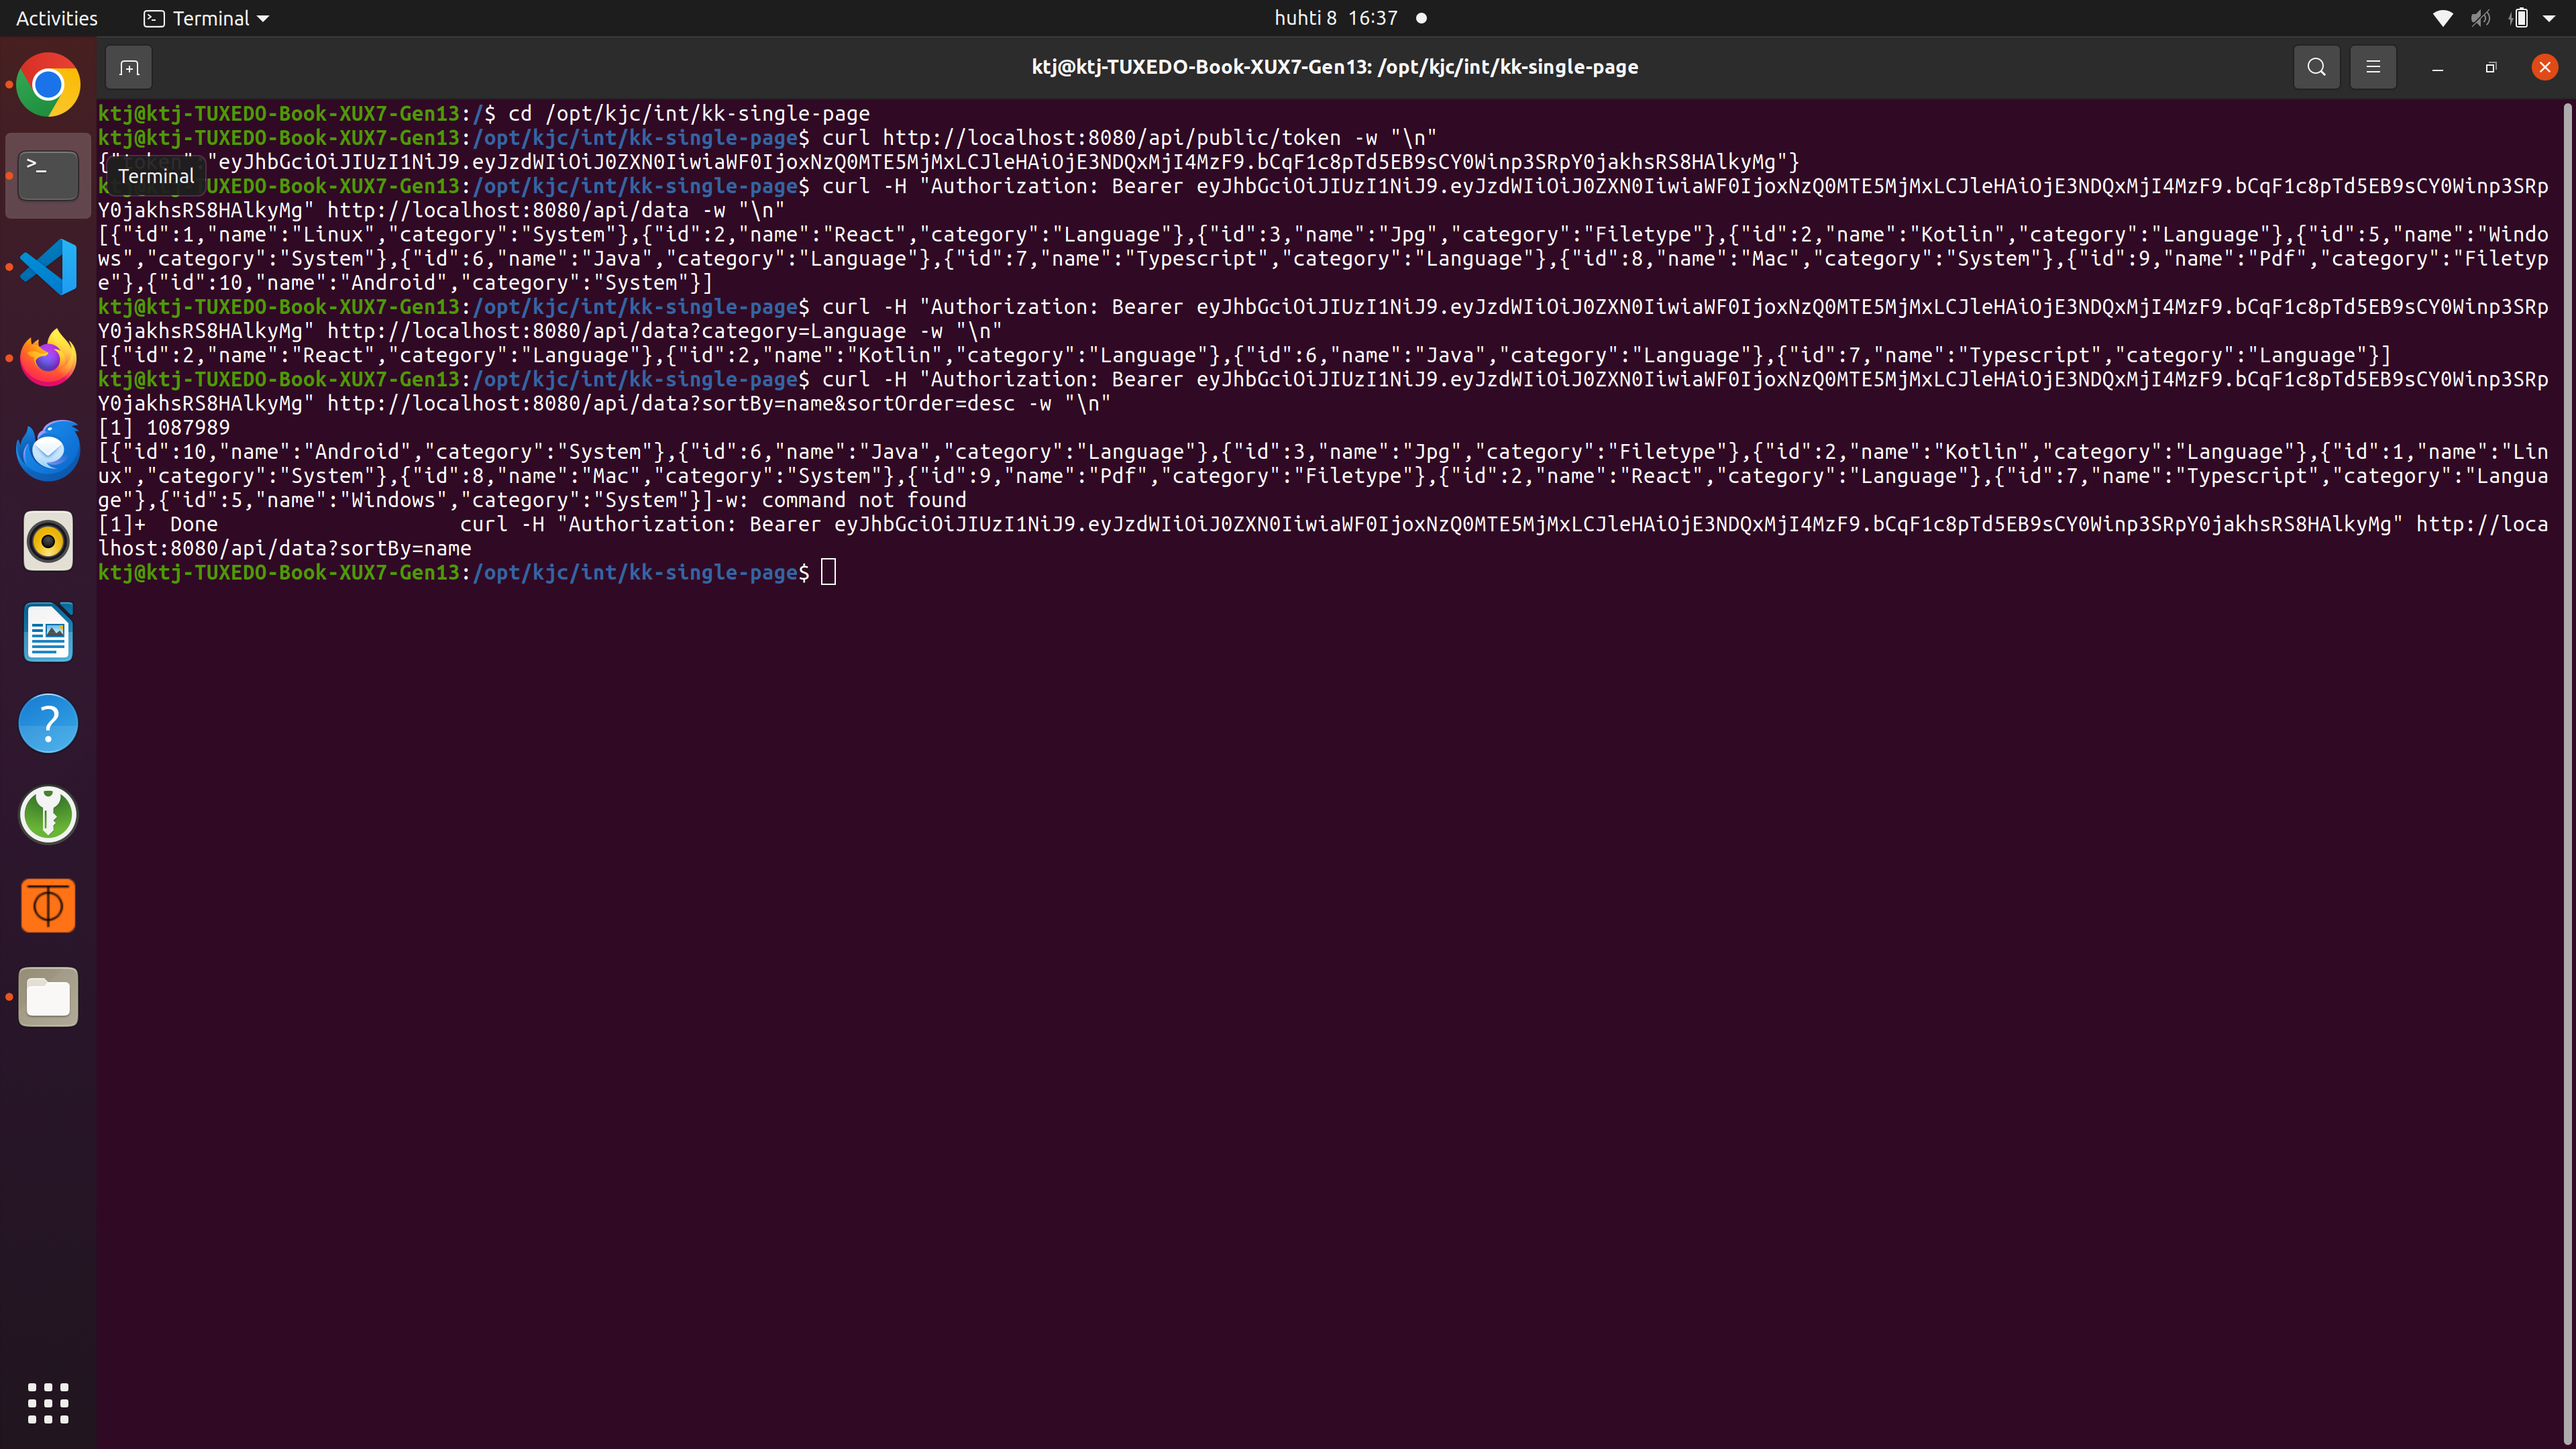
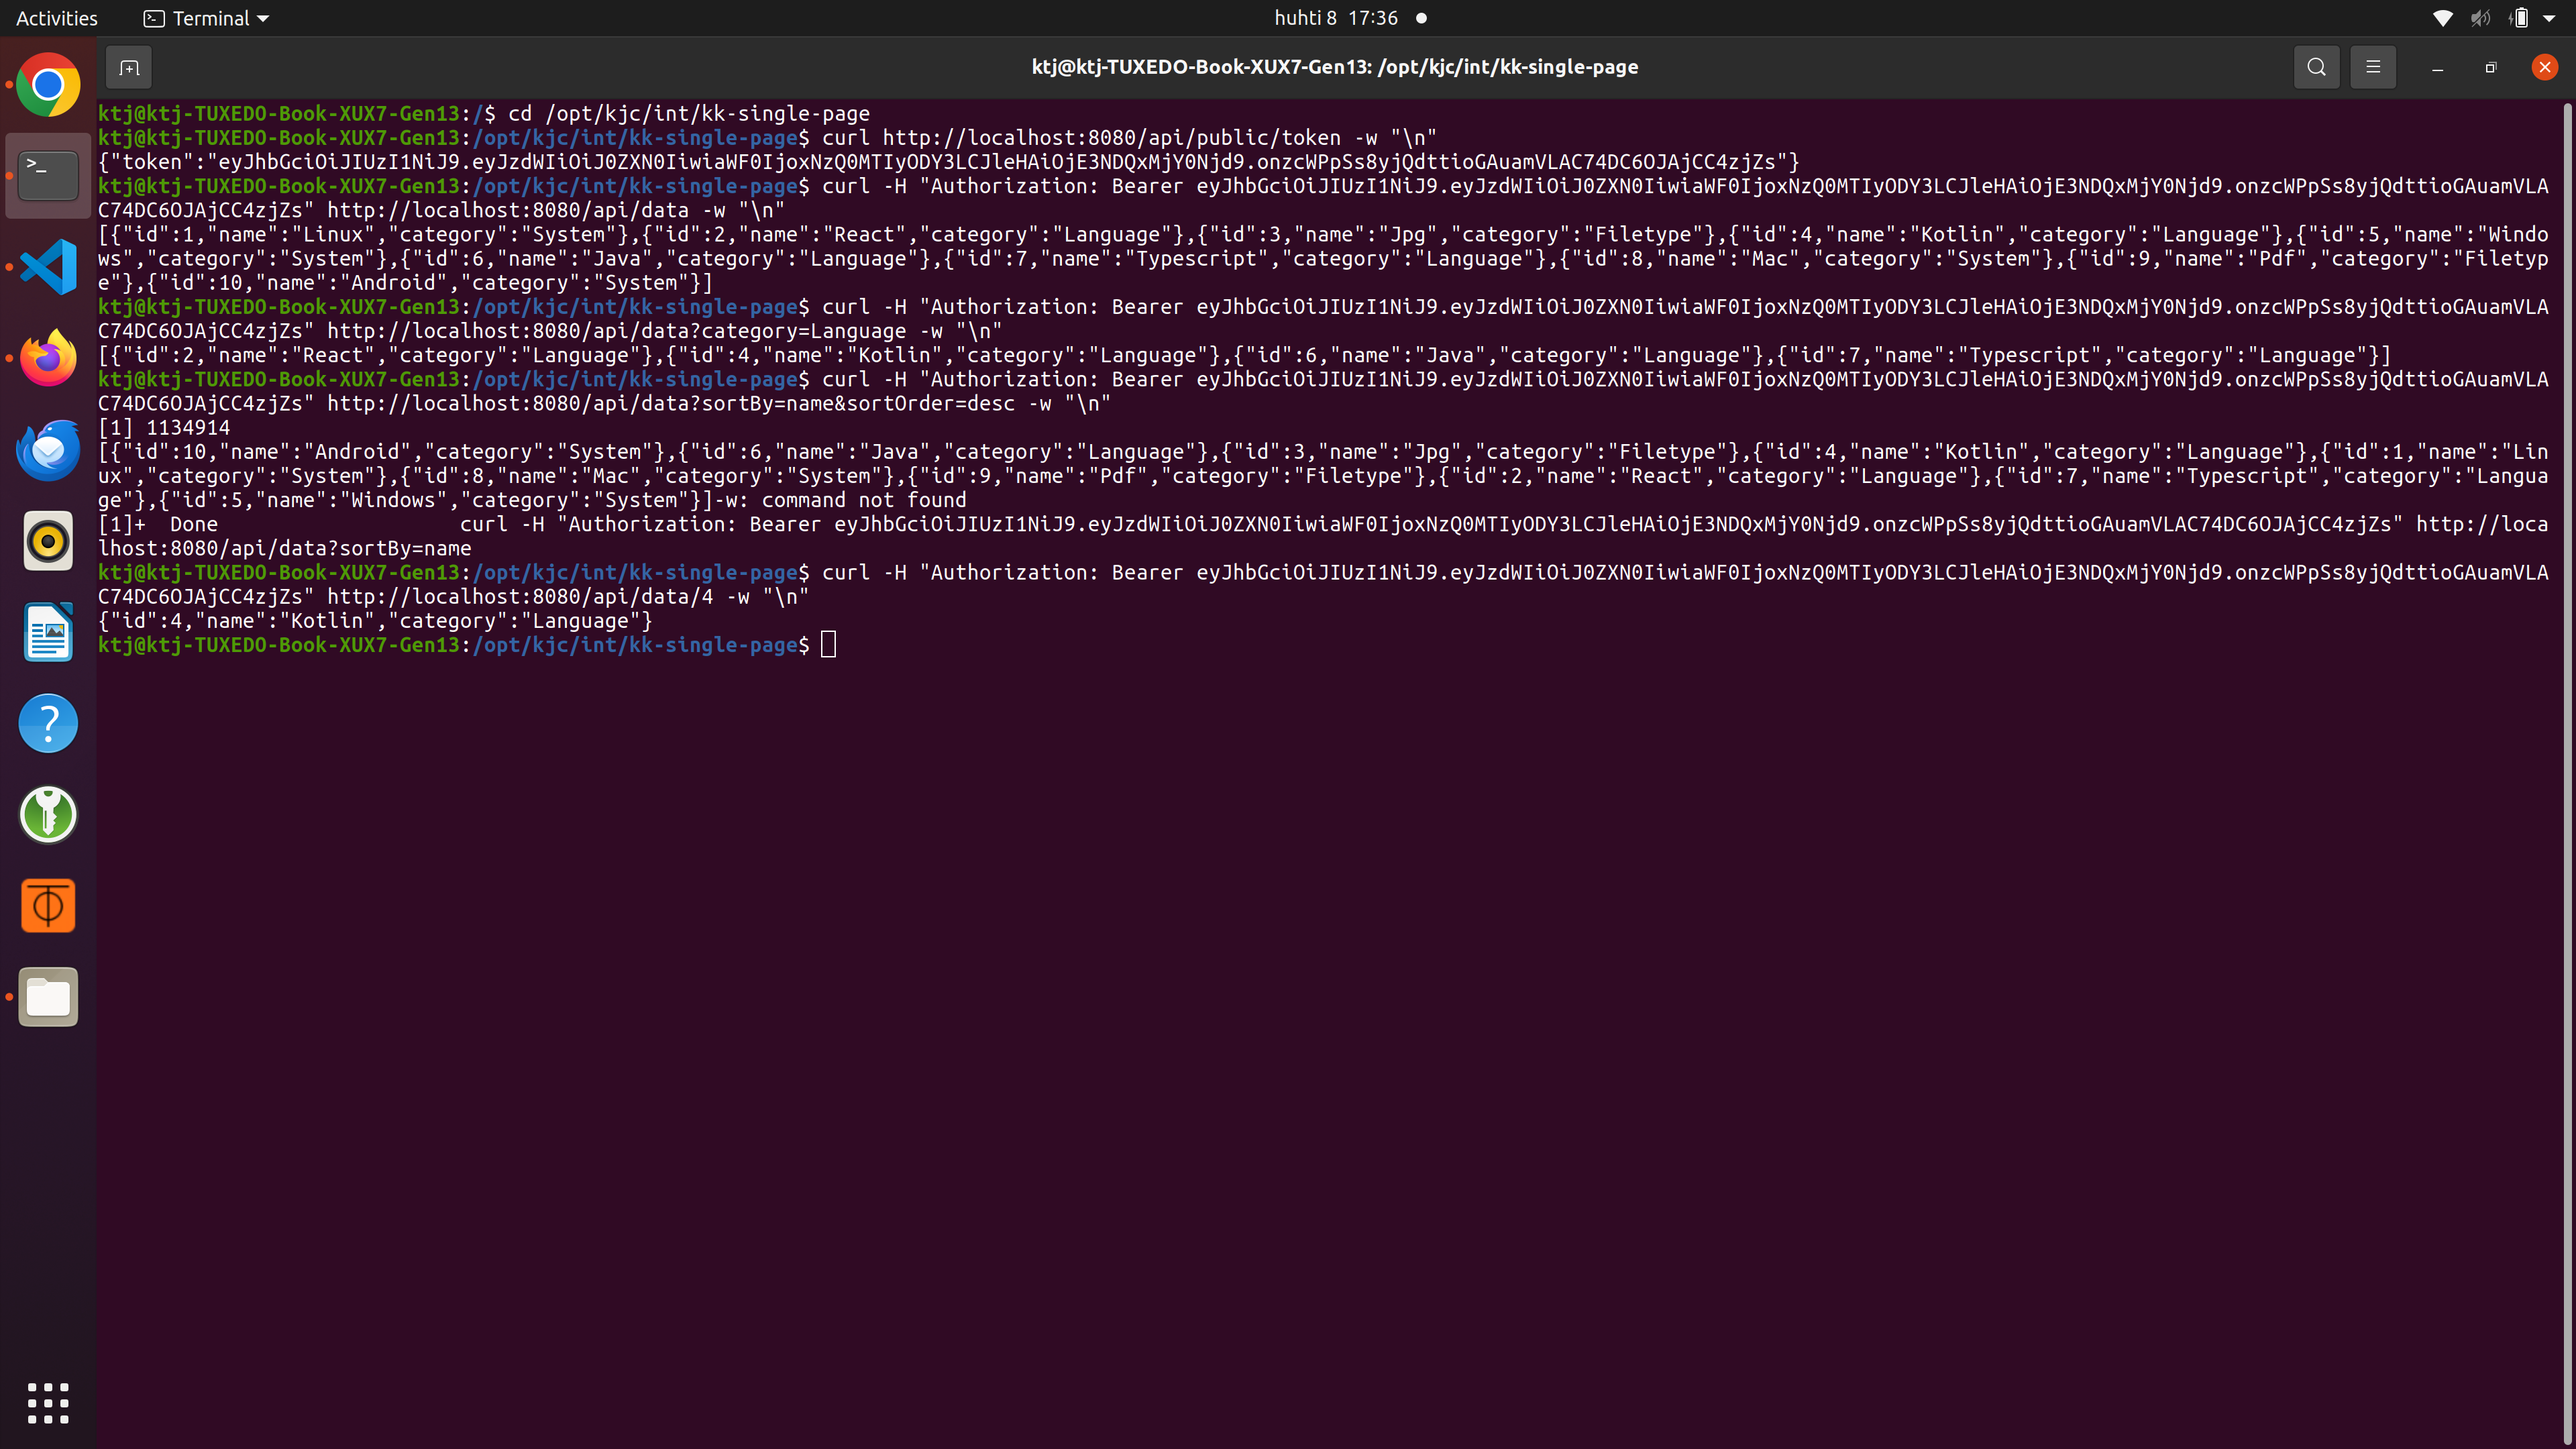
Search a singular record by id with auth

diff --git a/src/main/kotlin/com/katariinatuulia/com/kk_single_page/DataListings.kt b/src/main/kotlin/com/katariinatuulia/com/kk_single_page/DataListings.kt
@@ -4,6 +4,8 @@ import org.springframework.web.bind.annotation.GetMapping
 import org.springframework.web.bind.annotation.RequestMapping
 import org.springframework.web.bind.annotation.RequestParam
 import org.springframework.web.bind.annotation.RestController
+import org.springframework.web.bind.annotation.PathVariable
+import org.springframework.http.ResponseEntity
 
 data class DataEntry(val id: Int, val name: String, val category: String)
 
@@ -15,7 +17,7 @@ class DataController {
         DataEntry(1, "Linux", "System"),
         DataEntry(2, "React", "Language"),
         DataEntry(3, "Jpg", "Filetype"),
-        DataEntry(2, "Kotlin", "Language"),
+        DataEntry(4, "Kotlin", "Language"),
         DataEntry(5, "Windows", "System"),
         DataEntry(6, "Java", "Language"),
         DataEntry(7, "Typescript", "Language"),
@@ -27,11 +29,10 @@ class DataController {
     @GetMapping
     fun listData(
         @RequestParam(required = false) category: String?,
-        @RequestParam(required = false) name: String?,     
+        @RequestParam(required = false) name: String?,
         @RequestParam(required = false) sortBy: String?,
         @RequestParam(required = false) sortOrder: String?
     ): List<DataEntry> {
-        println("category: $category, name: $name")
 
         var filteredData = data.toList()
 
@@ -59,4 +60,16 @@ class DataController {
 
         return filteredData
     }
+
+    // Search for single entry
+    @GetMapping("/{id}")
+    fun getById(@PathVariable id: Int): ResponseEntity<DataEntry> {
+        val entry = data.find { it.id == id }
+        return if (entry != null) {
+            ResponseEntity.ok(entry)
+        } else {
+            ResponseEntity.notFound().build()
+        }
+    }
+
 }

diff --git a/README.md b/README.md
@@ -86,6 +86,11 @@ List data sorted by name with auth:
 curl -H "Authorization: Bearer YOUR_TOKEN_HERE" http://localhost:8080/api/data?sortBy=name&sortOrder=desc -w "\n"
 ```
 
+Search a singular record by id with auth:
+```bash
+curl -H "Authorization: Bearer YOUR_TOKEN_HERE" http://localhost:8080/api/data/4 -w "\n"
+```
+
 ## Troubleshooting
 
 If port is in use:
